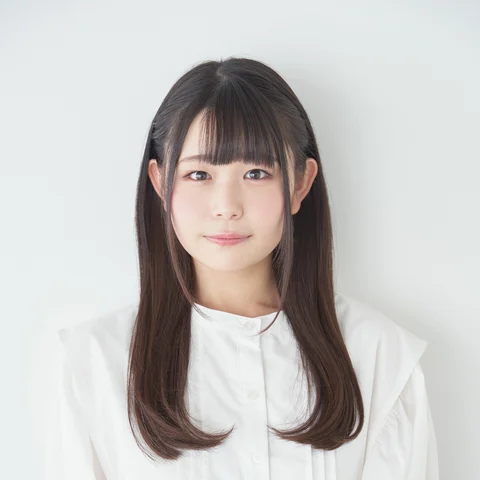
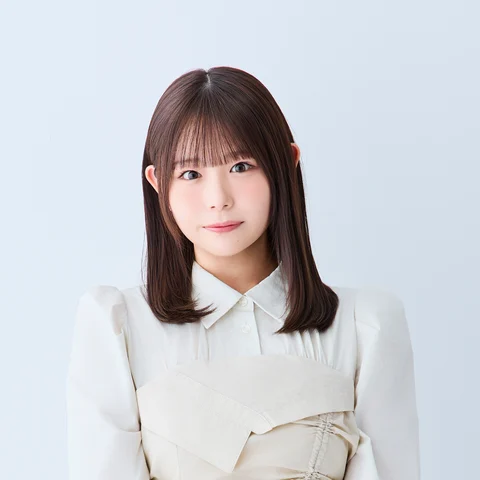
kawaii-re: update Kohinata Mika photo and hide current selection card

Changed region(s): [[0.2188, 0.0938, 0.9375, 1.0], [0.1875, 0.9062, 0.2188, 1.0]]

diff --git a/kawaii-re/index.html b/kawaii-re/index.html
@@ -18,7 +18,7 @@
   <link rel="stylesheet" href="fonts.css">
   <link rel="stylesheet" href="type-tokens.css">
   <link rel="stylesheet" href="styles.css?v=20261106-ux2">
-  <script id="performance-data" type="application/json">{"title":"KAWAII偶像パラドキシカル 再演","saleAt":"2026-11-12T22:00:00+09:00","ticketUrl":"https://confetti-web.com/@/may-holic23","officialUrl":"https://ameblo.jp/may-holic/entry-12983587226.html","email":"mayholic20209@gmail.com","shows":[{"id":1,"day":16,"weekday":"水","time":"19:00"},{"id":2,"day":17,"weekday":"木","time":"14:00"},{"id":3,"day":17,"weekday":"木","time":"19:00"},{"id":4,"day":18,"weekday":"金","time":"14:00"},{"id":5,"day":18,"weekday":"金","time":"19:00"},{"id":6,"day":19,"weekday":"土","time":"13:30"},{"id":7,"day":19,"weekday":"土","time":"18:30"},{"id":8,"day":20,"weekday":"日","time":"13:00"},{"id":9,"day":20,"weekday":"日","time":"17:00"}],"cast":[{"id":"sasaki-kotoko","name":"佐々木琴子","role":"コメ子","shows":[1,2,3,4,5,6,7,8,9],"source":"佐々木琴子.jpg","imageNumber":1,"crop":{"position":"attention","inset":0}},{"id":"sagara-mayu","name":"相良茉優","role":"神","shows":[2,3,4,5],"source":"相良茉優宣材写真.JPG","imageNumber":2,"crop":{"position":"attention","inset":0}},{"id":"kosaka-saki","name":"香坂さき","role":"神","shows":[1,6,7],"source":"香坂さき_アップ.jpg","imageNumber":3,"crop":{"position":"attention","inset":0}},{"id":"shioiri-asuka","name":"汐入あすか","role":"神","shows":[8,9],"source":"汐入あすかアー写 のコピー.png","imageNumber":4,"crop":{"position":"attention","inset":0}},{"id":"yagi-mashiro","name":"八木ましろ","role":"ムギ美","shows":[2,3,8,9],"source":"八木ましろ様宣材写真.jpg","imageNumber":5,"crop":{"position":"north","inset":0}},{"id":"yoshitake-chihaya","name":"吉武千颯","role":"ムギ美","shows":[1,4,5,6,7],"source":"吉武千颯 (1).jpeg","imageNumber":6,"crop":{"position":"north","inset":0}},{"id":"kohinata-mika","name":"小日向美香","role":"アワ和","shows":[2,3,6,7],"source":"小日向美香_宣材写真_S.jpeg","imageNumber":7,"crop":{"position":"attention","inset":0}},{"id":"kato-yui","name":"加藤結","role":"アワ和","shows":[1,4,5,8,9],"source":"加藤結写真.jpg","imageNumber":8,"crop":{"position":"attention","inset":0}},{"id":"hirose-yuki","name":"広瀬ゆうき","role":"キビ崎","shows":[1,6,7],"source":"広瀬ゆうき.jpg のコピー.jpg","imageNumber":9,"crop":{"position":"attention","inset":0}},{"id":"tanaka-saho","name":"田中咲帆","role":"キビ崎","shows":[2,3,4,5,8,9],"source":"田中咲帆 宣材写真.png のコピー.png","imageNumber":10,"crop":{"position":"attention","inset":0}},{"id":"harada-sayaka","name":"原田彩楓","role":"マメ乃","shows":[4,5,6,7],"source":"原田彩楓_宣材写真_バストアップ_斜め.JPEG","imageNumber":11,"crop":{"position":"attention","inset":0}},{"id":"minato-mio","name":"水湊美緒","role":"マメ乃","shows":[1,2,3,8,9],"source":"水湊美緒　宣材写真.jpg","imageNumber":12,"crop":{"position":"north","inset":0}},{"id":"nakazawa-mina","name":"中澤ミナ","role":"ざこざこ","shows":[1,8,9],"source":"ナカザワミナ.jpeg","imageNumber":13,"crop":{"position":"north","inset":0}},{"id":"mano-mizuki","name":"真野美月","role":"ざこざこ","shows":[4,5,6,7],"source":"真野美月_宣材写真.JPEG","imageNumber":14,"crop":{"position":"north","inset":0}},{"id":"fukagawa-ruka","name":"深川瑠華","role":"ざこざこ","shows":[2,3],"source":"深川瑠華_宣材写真.JPG","imageNumber":15,"crop":{"position":"attention","inset":0}},{"id":"ishihara-misaki","name":"石原美沙紀","role":"AKI","affiliation":"おとな小学生","shows":[1,2,3,4,5,6,7,8,9],"source":"石原美沙紀_2026宣材.JPG","imageNumber":16,"crop":{"position":"attention","inset":0}},{"id":"mita-ibuki","name":"三田美吹","role":"NIMO","shows":[1,2,3,4,5,6,7,8,9],"source":"三田美吹.JPG","imageNumber":17,"crop":{"position":"attention","inset":0}},{"id":"abe-hisayo","name":"阿部寿世","role":"KURARA","shows":[1,4,5,6,7],"source":"阿部寿世_宣伝写真.png","imageNumber":18,"crop":{"position":"north","inset":0}},{"id":"nakamura-akari","name":"中村朱里","role":"KURARA","affiliation":"B≡FULLEST","shows":[2,3,8,9],"source":"中村朱里宣材写真.jpg","imageNumber":19,"crop":{"position":"attention","inset":0}},{"id":"shirosaki-momoka","name":"城崎桃華","role":"SERIMU","shows":[1,2,3,8,9],"source":"城崎桃華.jpg","imageNumber":20,"crop":{"position":"attention","inset":0}},{"id":"ogoe-haruka","name":"小越春花","role":"SERIMU","shows":[4,5,6,7],"source":"小越春花_宣材写真.jpg のコピー.jpg","imageNumber":21,"crop":{"position":"attention","inset":0}},{"id":"yumoto-ami","name":"湯本亜美","role":"YOMONE","shows":[4,5,8,9],"source":"湯本亜美アー写.jpg","imageNumber":22,"crop":{"position":"attention","inset":0}},{"id":"yuki-rina","name":"結城りな","role":"YOMONE","shows":[1,2,3,6,7],"source":"結城りな宣材写真.jpg","imageNumber":23,"crop":{"position":"attention","inset":0}},{"id":"aimoto-ami","name":"藍本あみ","role":"RANON","shows":[1,6,7,8,9],"source":"藍本あみ宣材写真.jpg","imageNumber":24,"crop":{"position":"attention","inset":0}},{"id":"nobematsu-maika","name":"延松舞佳","role":"RANON","affiliation":"Hey!Mommy!","shows":[2,3,4,5],"source":"延松舞佳_宣材写真.jpg","imageNumber":25,"crop":{"position":"north","inset":0,"verticalOffset":0.3}},{"id":"natsume-hina","name":"夏目妃菜","role":"えるえる","shows":[1,4,5,6,7],"source":"夏目妃菜.jpg","imageNumber":26,"crop":{"position":"attention","inset":0}},{"id":"hoshino-miyu","name":"星野美夢","role":"えるえる","affiliation":"おとな小学生","shows":[2,3,8,9],"source":"星野美夢宣材写真.JPG","imageNumber":27,"crop":{"position":"attention","inset":0}},{"id":"okamoto-meiko","name":"岡本芽子","role":"リブラ","affiliation":"メイホリック","shows":[1,2,3,4,5,6,7,8,9],"source":"岡本芽子.jpg","imageNumber":28,"crop":{"position":"north","inset":0}},{"id":"sakura-kaoru","name":"佐倉薫","role":"ピスケス","shows":[2,3,4,5],"source":"1a_014佐倉薫.jpeg","imageNumber":29,"crop":{"position":"attention","inset":0}},{"id":"murahoshi-riju","name":"村星りじゅ","role":"ピスケス","shows":[1,6,7,8,9],"source":"村星りじゅ (1).jpg のコピー.jpg","imageNumber":30,"crop":{"position":"north","inset":0}},{"id":"honda-shiori","name":"本多しおり","role":"カンケル","shows":[4,5,6,7],"source":"本多しおり_宣材写真.PNG","imageNumber":31,"crop":{"position":"attention","inset":0}},{"id":"hiruta-airi","name":"蛭田愛梨","role":"カンケル","shows":[1,2,3,8,9],"source":"蛭田愛梨_アー写.JPG","imageNumber":32,"crop":{"position":"attention","inset":0}},{"id":"mitsuha-mio","name":"三葉海緒","role":"ヴィルゴ","shows":[1,2,3,6,7],"source":"三葉海緒_宣材写真.jpeg","imageNumber":33,"crop":{"position":"attention","inset":0}},{"id":"nishio-momoko","name":"西尾桃子","role":"ヴィルゴ","affiliation":"Mi'Line Hearts","shows":[4,5,8,9],"source":"西尾桃子宣材写真.jpg","imageNumber":34,"crop":{"position":"attention","inset":0}},{"id":"fukushima-haruna","name":"福嶋晴菜","role":"ぺぬぺぬ","shows":[6,7,8,9],"source":"福嶋晴菜_宣材 (1).jpg","imageNumber":35,"crop":{"position":"north","inset":0}},{"id":"amane-miho","name":"天音みほ","role":"ぺぬぺぬ","shows":[1,2,3,4,5],"source":"天音みほ_バストアップ.jpg","imageNumber":36,"crop":{"position":"attention","inset":0}}],"endsAt":"2026-12-21T00:00:00+09:00","socialUrl":"https://x.com/mayholictheater","billingGroups":[[["sasaki-kotoko"]],[["sagara-mayu","kosaka-saki","shioiri-asuka"]],[["yagi-mashiro","yoshitake-chihaya"],["kohinata-mika","kato-yui"],["hirose-yuki","tanaka-saho"],["harada-sayaka","minato-mio"],["nakazawa-mina","mano-mizuki","fukagawa-ruka"]],[["ishihara-misaki"],["mita-ibuki"],["abe-hisayo","nakamura-akari"],["shirosaki-momoka","ogoe-haruka"],["yumoto-ami","yuki-rina"],["aimoto-ami","nobematsu-maika"],["natsume-hina","hoshino-miyu"]],[["okamoto-meiko"],["sakura-kaoru","murahoshi-riju"],["honda-shiori","hiruta-airi"],["mitsuha-mio","nishio-momoko"],["fukushima-haruna","amane-miho"]]]}</script>
+  <script id="performance-data" type="application/json">{"title":"KAWAII偶像パラドキシカル 再演","saleAt":"2026-11-12T22:00:00+09:00","ticketUrl":"https://confetti-web.com/@/may-holic23","officialUrl":"https://ameblo.jp/may-holic/entry-12983587226.html","email":"mayholic20209@gmail.com","shows":[{"id":1,"day":16,"weekday":"水","time":"19:00"},{"id":2,"day":17,"weekday":"木","time":"14:00"},{"id":3,"day":17,"weekday":"木","time":"19:00"},{"id":4,"day":18,"weekday":"金","time":"14:00"},{"id":5,"day":18,"weekday":"金","time":"19:00"},{"id":6,"day":19,"weekday":"土","time":"13:30"},{"id":7,"day":19,"weekday":"土","time":"18:30"},{"id":8,"day":20,"weekday":"日","time":"13:00"},{"id":9,"day":20,"weekday":"日","time":"17:00"}],"cast":[{"id":"sasaki-kotoko","name":"佐々木琴子","role":"コメ子","shows":[1,2,3,4,5,6,7,8,9],"source":"佐々木琴子.jpg","imageNumber":1,"crop":{"position":"attention","inset":0}},{"id":"sagara-mayu","name":"相良茉優","role":"神","shows":[2,3,4,5],"source":"相良茉優宣材写真.JPG","imageNumber":2,"crop":{"position":"attention","inset":0}},{"id":"kosaka-saki","name":"香坂さき","role":"神","shows":[1,6,7],"source":"香坂さき_アップ.jpg","imageNumber":3,"crop":{"position":"attention","inset":0}},{"id":"shioiri-asuka","name":"汐入あすか","role":"神","shows":[8,9],"source":"汐入あすかアー写 のコピー.png","imageNumber":4,"crop":{"position":"attention","inset":0}},{"id":"yagi-mashiro","name":"八木ましろ","role":"ムギ美","shows":[2,3,8,9],"source":"八木ましろ様宣材写真.jpg","imageNumber":5,"crop":{"position":"north","inset":0}},{"id":"yoshitake-chihaya","name":"吉武千颯","role":"ムギ美","shows":[1,4,5,6,7],"source":"吉武千颯 (1).jpeg","imageNumber":6,"crop":{"position":"north","inset":0}},{"id":"kohinata-mika","name":"小日向美香","role":"アワ和","shows":[2,3,6,7],"source":"小日向美香_宣材写真 (2).jpg","imageNumber":7,"crop":{"position":"attention","inset":0}},{"id":"kato-yui","name":"加藤結","role":"アワ和","shows":[1,4,5,8,9],"source":"加藤結写真.jpg","imageNumber":8,"crop":{"position":"attention","inset":0}},{"id":"hirose-yuki","name":"広瀬ゆうき","role":"キビ崎","shows":[1,6,7],"source":"広瀬ゆうき.jpg のコピー.jpg","imageNumber":9,"crop":{"position":"attention","inset":0}},{"id":"tanaka-saho","name":"田中咲帆","role":"キビ崎","shows":[2,3,4,5,8,9],"source":"田中咲帆 宣材写真.png のコピー.png","imageNumber":10,"crop":{"position":"attention","inset":0}},{"id":"harada-sayaka","name":"原田彩楓","role":"マメ乃","shows":[4,5,6,7],"source":"原田彩楓_宣材写真_バストアップ_斜め.JPEG","imageNumber":11,"crop":{"position":"attention","inset":0}},{"id":"minato-mio","name":"水湊美緒","role":"マメ乃","shows":[1,2,3,8,9],"source":"水湊美緒　宣材写真.jpg","imageNumber":12,"crop":{"position":"north","inset":0}},{"id":"nakazawa-mina","name":"中澤ミナ","role":"ざこざこ","shows":[1,8,9],"source":"ナカザワミナ.jpeg","imageNumber":13,"crop":{"position":"north","inset":0}},{"id":"mano-mizuki","name":"真野美月","role":"ざこざこ","shows":[4,5,6,7],"source":"真野美月_宣材写真.JPEG","imageNumber":14,"crop":{"position":"north","inset":0}},{"id":"fukagawa-ruka","name":"深川瑠華","role":"ざこざこ","shows":[2,3],"source":"深川瑠華_宣材写真.JPG","imageNumber":15,"crop":{"position":"attention","inset":0}},{"id":"ishihara-misaki","name":"石原美沙紀","role":"AKI","affiliation":"おとな小学生","shows":[1,2,3,4,5,6,7,8,9],"source":"石原美沙紀_2026宣材.JPG","imageNumber":16,"crop":{"position":"attention","inset":0}},{"id":"mita-ibuki","name":"三田美吹","role":"NIMO","shows":[1,2,3,4,5,6,7,8,9],"source":"三田美吹.JPG","imageNumber":17,"crop":{"position":"attention","inset":0}},{"id":"abe-hisayo","name":"阿部寿世","role":"KURARA","shows":[1,4,5,6,7],"source":"阿部寿世_宣伝写真.png","imageNumber":18,"crop":{"position":"north","inset":0}},{"id":"nakamura-akari","name":"中村朱里","role":"KURARA","affiliation":"B≡FULLEST","shows":[2,3,8,9],"source":"中村朱里宣材写真.jpg","imageNumber":19,"crop":{"position":"attention","inset":0}},{"id":"shirosaki-momoka","name":"城崎桃華","role":"SERIMU","shows":[1,2,3,8,9],"source":"城崎桃華.jpg","imageNumber":20,"crop":{"position":"attention","inset":0}},{"id":"ogoe-haruka","name":"小越春花","role":"SERIMU","shows":[4,5,6,7],"source":"小越春花_宣材写真.jpg のコピー.jpg","imageNumber":21,"crop":{"position":"attention","inset":0}},{"id":"yumoto-ami","name":"湯本亜美","role":"YOMONE","shows":[4,5,8,9],"source":"湯本亜美アー写.jpg","imageNumber":22,"crop":{"position":"attention","inset":0}},{"id":"yuki-rina","name":"結城りな","role":"YOMONE","shows":[1,2,3,6,7],"source":"結城りな宣材写真.jpg","imageNumber":23,"crop":{"position":"attention","inset":0}},{"id":"aimoto-ami","name":"藍本あみ","role":"RANON","shows":[1,6,7,8,9],"source":"藍本あみ宣材写真.jpg","imageNumber":24,"crop":{"position":"attention","inset":0}},{"id":"nobematsu-maika","name":"延松舞佳","role":"RANON","affiliation":"Hey!Mommy!","shows":[2,3,4,5],"source":"延松舞佳_宣材写真.jpg","imageNumber":25,"crop":{"position":"north","inset":0,"verticalOffset":0.3}},{"id":"natsume-hina","name":"夏目妃菜","role":"えるえる","shows":[1,4,5,6,7],"source":"夏目妃菜.jpg","imageNumber":26,"crop":{"position":"attention","inset":0}},{"id":"hoshino-miyu","name":"星野美夢","role":"えるえる","affiliation":"おとな小学生","shows":[2,3,8,9],"source":"星野美夢宣材写真.JPG","imageNumber":27,"crop":{"position":"attention","inset":0}},{"id":"okamoto-meiko","name":"岡本芽子","role":"リブラ","affiliation":"メイホリック","shows":[1,2,3,4,5,6,7,8,9],"source":"岡本芽子.jpg","imageNumber":28,"crop":{"position":"north","inset":0}},{"id":"sakura-kaoru","name":"佐倉薫","role":"ピスケス","shows":[2,3,4,5],"source":"1a_014佐倉薫.jpeg","imageNumber":29,"crop":{"position":"attention","inset":0}},{"id":"murahoshi-riju","name":"村星りじゅ","role":"ピスケス","shows":[1,6,7,8,9],"source":"村星りじゅ (1).jpg のコピー.jpg","imageNumber":30,"crop":{"position":"north","inset":0}},{"id":"honda-shiori","name":"本多しおり","role":"カンケル","shows":[4,5,6,7],"source":"本多しおり_宣材写真.PNG","imageNumber":31,"crop":{"position":"attention","inset":0}},{"id":"hiruta-airi","name":"蛭田愛梨","role":"カンケル","shows":[1,2,3,8,9],"source":"蛭田愛梨_アー写.JPG","imageNumber":32,"crop":{"position":"attention","inset":0}},{"id":"mitsuha-mio","name":"三葉海緒","role":"ヴィルゴ","shows":[1,2,3,6,7],"source":"三葉海緒_宣材写真.jpeg","imageNumber":33,"crop":{"position":"attention","inset":0}},{"id":"nishio-momoko","name":"西尾桃子","role":"ヴィルゴ","affiliation":"Mi'Line Hearts","shows":[4,5,8,9],"source":"西尾桃子宣材写真.jpg","imageNumber":34,"crop":{"position":"attention","inset":0}},{"id":"fukushima-haruna","name":"福嶋晴菜","role":"ぺぬぺぬ","shows":[6,7,8,9],"source":"福嶋晴菜_宣材 (1).jpg","imageNumber":35,"crop":{"position":"north","inset":0}},{"id":"amane-miho","name":"天音みほ","role":"ぺぬぺぬ","shows":[1,2,3,4,5],"source":"天音みほ_バストアップ.jpg","imageNumber":36,"crop":{"position":"attention","inset":0}}],"endsAt":"2026-12-21T00:00:00+09:00","socialUrl":"https://x.com/mayholictheater","billingGroups":[[["sasaki-kotoko"]],[["sagara-mayu","kosaka-saki","shioiri-asuka"]],[["yagi-mashiro","yoshitake-chihaya"],["kohinata-mika","kato-yui"],["hirose-yuki","tanaka-saho"],["harada-sayaka","minato-mio"],["nakazawa-mina","mano-mizuki","fukagawa-ruka"]],[["ishihara-misaki"],["mita-ibuki"],["abe-hisayo","nakamura-akari"],["shirosaki-momoka","ogoe-haruka"],["yumoto-ami","yuki-rina"],["aimoto-ami","nobematsu-maika"],["natsume-hina","hoshino-miyu"]],[["okamoto-meiko"],["sakura-kaoru","murahoshi-riju"],["honda-shiori","hiruta-airi"],["mitsuha-mio","nishio-momoko"],["fukushima-haruna","amane-miho"]]]}</script>
   <script src="app.js?v=20261106-ux2" type="module"></script>
 </head>
 <body>
@@ -102,7 +102,7 @@
       <div class="section-head"><h2>SCHEDULE &amp; TICKET <span>公演日程・チケット</span></h2></div>
       <div id="cast-finder" class="finder-intro"><label for="cast-filter">出演者から探す<select id="cast-filter"><option value="">すべての出演者</option><option value="sasaki-kotoko">佐々木琴子</option><option value="sagara-mayu">相良茉優</option><option value="kosaka-saki">香坂さき</option><option value="shioiri-asuka">汐入あすか</option><option value="yagi-mashiro">八木ましろ</option><option value="yoshitake-chihaya">吉武千颯</option><option value="kohinata-mika">小日向美香</option><option value="kato-yui">加藤結</option><option value="hirose-yuki">広瀬ゆうき</option><option value="tanaka-saho">田中咲帆</option><option value="harada-sayaka">原田彩楓</option><option value="minato-mio">水湊美緒</option><option value="nakazawa-mina">中澤ミナ</option><option value="mano-mizuki">真野美月</option><option value="fukagawa-ruka">深川瑠華</option><option value="ishihara-misaki">石原美沙紀</option><option value="mita-ibuki">三田美吹</option><option value="abe-hisayo">阿部寿世</option><option value="nakamura-akari">中村朱里</option><option value="shirosaki-momoka">城崎桃華</option><option value="ogoe-haruka">小越春花</option><option value="yumoto-ami">湯本亜美</option><option value="yuki-rina">結城りな</option><option value="aimoto-ami">藍本あみ</option><option value="nobematsu-maika">延松舞佳</option><option value="natsume-hina">夏目妃菜</option><option value="hoshino-miyu">星野美夢</option><option value="okamoto-meiko">岡本芽子</option><option value="sakura-kaoru">佐倉薫</option><option value="murahoshi-riju">村星りじゅ</option><option value="honda-shiori">本多しおり</option><option value="hiruta-airi">蛭田愛梨</option><option value="mitsuha-mio">三葉海緒</option><option value="nishio-momoko">西尾桃子</option><option value="fukushima-haruna">福嶋晴菜</option><option value="amane-miho">天音みほ</option></select></label><div><p class="important">ご購入前に、キャストの出演日をご確認ください。</p><p class="finder-note">応援キャストは、出演日以外の公演でも選択できます。</p></div></div>
       <noscript><p>出演回の絞り込みにはJavaScriptが必要です。出演者欄に全出演日時を記載しています。<a href="https://ameblo.jp/may-holic/entry-12983587226.html">公式の全出演日程もご確認ください。</a></p></noscript>
-      <div class="schedule-panel"><div class="schedule"><table><caption>2026年12月 公演日程（全9公演）</caption><tbody><tr><th scope="row"><span>12.16</span><small>（水）</small></th><td><span class="show-slot"><button type="button" class="show-button" data-show="1" aria-controls="show-results" aria-pressed="false" aria-label="12月16日 19:00の出演者を見る"><span>19:00</span><small class="show-selected" hidden>選択中 ✓</small></button><span class="show-unavailable" hidden>出演なし</span></span></td></tr><tr><th scope="row"><span>12.17</span><small>（木）</small></th><td><span class="show-slot"><button type="button" class="show-button" data-show="2" aria-controls="show-results" aria-pressed="false" aria-label="12月17日 14:00の出演者を見る"><span>14:00</span><small class="show-selected" hidden>選択中 ✓</small></button><span class="show-unavailable" hidden>出演なし</span></span><span class="time-divider" aria-hidden="true">/</span><span class="show-slot"><button type="button" class="show-button" data-show="3" aria-controls="show-results" aria-pressed="false" aria-label="12月17日 19:00の出演者を見る"><span>19:00</span><small class="show-selected" hidden>選択中 ✓</small></button><span class="show-unavailable" hidden>出演なし</span></span></td></tr><tr><th scope="row"><span>12.18</span><small>（金）</small></th><td><span class="show-slot"><button type="button" class="show-button" data-show="4" aria-controls="show-results" aria-pressed="false" aria-label="12月18日 14:00の出演者を見る"><span>14:00</span><small class="show-selected" hidden>選択中 ✓</small></button><span class="show-unavailable" hidden>出演なし</span></span><span class="time-divider" aria-hidden="true">/</span><span class="show-slot"><button type="button" class="show-button" data-show="5" aria-controls="show-results" aria-pressed="false" aria-label="12月18日 19:00の出演者を見る"><span>19:00</span><small class="show-selected" hidden>選択中 ✓</small></button><span class="show-unavailable" hidden>出演なし</span></span></td></tr><tr><th scope="row"><span>12.19</span><small>（土）</small></th><td><span class="show-slot"><button type="button" class="show-button" data-show="6" aria-controls="show-results" aria-pressed="false" aria-label="12月19日 13:30の出演者を見る"><span>13:30</span><small class="show-selected" hidden>選択中 ✓</small></button><span class="show-unavailable" hidden>出演なし</span></span><span class="time-divider" aria-hidden="true">/</span><span class="show-slot"><button type="button" class="show-button" data-show="7" aria-controls="show-results" aria-pressed="false" aria-label="12月19日 18:30の出演者を見る"><span>18:30</span><small class="show-selected" hidden>選択中 ✓</small></button><span class="show-unavailable" hidden>出演なし</span></span></td></tr><tr><th scope="row"><span>12.20</span><small>（日）</small></th><td><span class="show-slot"><button type="button" class="show-button" data-show="8" aria-controls="show-results" aria-pressed="false" aria-label="12月20日 13:00の出演者を見る"><span>13:00</span><small class="show-selected" hidden>選択中 ✓</small></button><span class="show-unavailable" hidden>出演なし</span></span><span class="time-divider" aria-hidden="true">/</span><span class="show-slot"><button type="button" class="show-button" data-show="9" aria-controls="show-results" aria-pressed="false" aria-label="12月20日 17:00の出演者を見る"><span>17:00</span><small class="show-selected" hidden>選択中 ✓</small></button><span class="show-unavailable" hidden>出演なし</span></span></td></tr></tbody></table><p class="caption js-help">開演時間を選ぶと、下に出演者を表示します。<br>選択中の時間をもう一度押すと、日時だけ解除できます。</p></div><div class="selection-state"><p class="selection-title">現在の選択</p><p id="selection-summary" role="status" aria-live="polite">日時・出演者は未選択です。</p><div id="same-role" class="same-role" hidden><p id="same-role-label" class="same-role-label"></p><div id="same-role-list" class="same-role-list"></div></div><div class="selection-actions"><button id="clear-show" type="button" hidden>日時を解除 <span aria-hidden="true">×</span></button><button id="clear-cast" type="button" hidden>出演者を解除 <span aria-hidden="true">×</span></button></div><p class="caption">上演時間：約120分（予定）<br>※演出の都合により若干変動する可能性がございます。</p></div></div>
+      <div class="schedule-panel"><div class="schedule"><table><caption>2026年12月 公演日程（全9公演）</caption><tbody><tr><th scope="row"><span>12.16</span><small>（水）</small></th><td><span class="show-slot"><button type="button" class="show-button" data-show="1" aria-controls="show-results" aria-pressed="false" aria-label="12月16日 19:00の出演者を見る"><span>19:00</span><small class="show-selected" hidden>選択中 ✓</small></button><span class="show-unavailable" hidden>出演なし</span></span></td></tr><tr><th scope="row"><span>12.17</span><small>（木）</small></th><td><span class="show-slot"><button type="button" class="show-button" data-show="2" aria-controls="show-results" aria-pressed="false" aria-label="12月17日 14:00の出演者を見る"><span>14:00</span><small class="show-selected" hidden>選択中 ✓</small></button><span class="show-unavailable" hidden>出演なし</span></span><span class="time-divider" aria-hidden="true">/</span><span class="show-slot"><button type="button" class="show-button" data-show="3" aria-controls="show-results" aria-pressed="false" aria-label="12月17日 19:00の出演者を見る"><span>19:00</span><small class="show-selected" hidden>選択中 ✓</small></button><span class="show-unavailable" hidden>出演なし</span></span></td></tr><tr><th scope="row"><span>12.18</span><small>（金）</small></th><td><span class="show-slot"><button type="button" class="show-button" data-show="4" aria-controls="show-results" aria-pressed="false" aria-label="12月18日 14:00の出演者を見る"><span>14:00</span><small class="show-selected" hidden>選択中 ✓</small></button><span class="show-unavailable" hidden>出演なし</span></span><span class="time-divider" aria-hidden="true">/</span><span class="show-slot"><button type="button" class="show-button" data-show="5" aria-controls="show-results" aria-pressed="false" aria-label="12月18日 19:00の出演者を見る"><span>19:00</span><small class="show-selected" hidden>選択中 ✓</small></button><span class="show-unavailable" hidden>出演なし</span></span></td></tr><tr><th scope="row"><span>12.19</span><small>（土）</small></th><td><span class="show-slot"><button type="button" class="show-button" data-show="6" aria-controls="show-results" aria-pressed="false" aria-label="12月19日 13:30の出演者を見る"><span>13:30</span><small class="show-selected" hidden>選択中 ✓</small></button><span class="show-unavailable" hidden>出演なし</span></span><span class="time-divider" aria-hidden="true">/</span><span class="show-slot"><button type="button" class="show-button" data-show="7" aria-controls="show-results" aria-pressed="false" aria-label="12月19日 18:30の出演者を見る"><span>18:30</span><small class="show-selected" hidden>選択中 ✓</small></button><span class="show-unavailable" hidden>出演なし</span></span></td></tr><tr><th scope="row"><span>12.20</span><small>（日）</small></th><td><span class="show-slot"><button type="button" class="show-button" data-show="8" aria-controls="show-results" aria-pressed="false" aria-label="12月20日 13:00の出演者を見る"><span>13:00</span><small class="show-selected" hidden>選択中 ✓</small></button><span class="show-unavailable" hidden>出演なし</span></span><span class="time-divider" aria-hidden="true">/</span><span class="show-slot"><button type="button" class="show-button" data-show="9" aria-controls="show-results" aria-pressed="false" aria-label="12月20日 17:00の出演者を見る"><span>17:00</span><small class="show-selected" hidden>選択中 ✓</small></button><span class="show-unavailable" hidden>出演なし</span></span></td></tr></tbody></table><p class="caption js-help">開演時間を選ぶと、下に出演者を表示します。<br>選択中の時間をもう一度押すと、日時だけ解除できます。</p></div><div class="selection-state" hidden><p id="selection-summary" role="status" aria-live="polite">日時・出演者は未選択です。</p><div id="same-role" class="same-role" hidden><p id="same-role-label" class="same-role-label"></p><div id="same-role-list" class="same-role-list"></div></div><div class="selection-actions"><button id="clear-show" type="button" hidden>日時を解除 <span aria-hidden="true">×</span></button><button id="clear-cast" type="button" hidden>出演者を解除 <span aria-hidden="true">×</span></button></div><p class="caption">上演時間：約120分（予定）<br>※演出の都合により若干変動する可能性がございます。</p></div></div>
       <div id="show-results" class="show-results" hidden><div class="result-head"><h3 id="results-heading" tabindex="-1">出演公演</h3><div class="result-actions"><button id="toggle-all-casts" class="text-link" type="button" hidden>全公演の出演者を開く</button><button id="result-clear-show" class="text-link" type="button" hidden>日時を解除</button><button id="reset-filter" class="text-link" type="button">条件をすべて解除</button></div></div><p id="result-status"></p><div id="result-list"></div></div>
       <div class="ticket-grid">
       <div class="prices"><h3>チケット <small>（全席指定・税込）</small></h3><dl><div><dt>S席</dt><dd>¥11,000</dd></div><div><dt>特典付A席</dt><dd>¥9,800</dd></div><div><dt>A席</dt><dd>¥8,800</dd></div></dl><p class="caption">当日券 ＋500円</p></div>

diff --git a/kawaii-re/template.html b/kawaii-re/template.html
@@ -67,7 +67,7 @@
       <div class="section-head"><h2>SCHEDULE &amp; TICKET <span>公演日程・チケット</span></h2></div>
       <div id="cast-finder" class="finder-intro"><label for="cast-filter">出演者から探す<select id="cast-filter"><option value="">すべての出演者</option>{{CAST_OPTIONS}}</select></label><div><p class="important">ご購入前に、キャストの出演日をご確認ください。</p><p class="finder-note">応援キャストは、出演日以外の公演でも選択できます。</p></div></div>
       <noscript><p>出演回の絞り込みにはJavaScriptが必要です。出演者欄に全出演日時を記載しています。<a href="https://ameblo.jp/may-holic/entry-12983587226.html">公式の全出演日程もご確認ください。</a></p></noscript>
-      <div class="schedule-panel"><div class="schedule"><table><caption>2026年12月 公演日程（全9公演）</caption><tbody>{{CALENDAR}}</tbody></table><p class="caption js-help">開演時間を選ぶと、下に出演者を表示します。<br>選択中の時間をもう一度押すと、日時だけ解除できます。</p></div><div class="selection-state"><p class="selection-title">現在の選択</p><p id="selection-summary" role="status" aria-live="polite">日時・出演者は未選択です。</p><div id="same-role" class="same-role" hidden><p id="same-role-label" class="same-role-label"></p><div id="same-role-list" class="same-role-list"></div></div><div class="selection-actions"><button id="clear-show" type="button" hidden>日時を解除 <span aria-hidden="true">×</span></button><button id="clear-cast" type="button" hidden>出演者を解除 <span aria-hidden="true">×</span></button></div><p class="caption">上演時間：約120分（予定）<br>※演出の都合により若干変動する可能性がございます。</p></div></div>
+      <div class="schedule-panel"><div class="schedule"><table><caption>2026年12月 公演日程（全9公演）</caption><tbody>{{CALENDAR}}</tbody></table><p class="caption js-help">開演時間を選ぶと、下に出演者を表示します。<br>選択中の時間をもう一度押すと、日時だけ解除できます。</p></div><div class="selection-state" hidden><p id="selection-summary" role="status" aria-live="polite">日時・出演者は未選択です。</p><div id="same-role" class="same-role" hidden><p id="same-role-label" class="same-role-label"></p><div id="same-role-list" class="same-role-list"></div></div><div class="selection-actions"><button id="clear-show" type="button" hidden>日時を解除 <span aria-hidden="true">×</span></button><button id="clear-cast" type="button" hidden>出演者を解除 <span aria-hidden="true">×</span></button></div><p class="caption">上演時間：約120分（予定）<br>※演出の都合により若干変動する可能性がございます。</p></div></div>
       <div id="show-results" class="show-results" hidden><div class="result-head"><h3 id="results-heading" tabindex="-1">出演公演</h3><div class="result-actions"><button id="toggle-all-casts" class="text-link" type="button" hidden>全公演の出演者を開く</button><button id="result-clear-show" class="text-link" type="button" hidden>日時を解除</button><button id="reset-filter" class="text-link" type="button">条件をすべて解除</button></div></div><p id="result-status"></p><div id="result-list"></div></div>
       <div class="ticket-grid">
       <div class="prices"><h3>チケット <small>（全席指定・税込）</small></h3><dl><div><dt>S席</dt><dd>¥11,000</dd></div><div><dt>特典付A席</dt><dd>¥9,800</dd></div><div><dt>A席</dt><dd>¥8,800</dd></div></dl><p class="caption">当日券 ＋500円</p></div>

diff --git a/kawaii-re/docs/cast-image-map.md b/kawaii-re/docs/cast-image-map.md
@@ -19,7 +19,7 @@
 | 04 | `kawaii-re-cast-04.webp` | 汐入あすか | 神 | `汐入あすかアー写 のコピー.png` |
 | 05 | `kawaii-re-cast-05.webp` | 八木ましろ | ムギ美 | `八木ましろ様宣材写真.jpg` |
 | 06 | `kawaii-re-cast-06.webp` | 吉武千颯 | ムギ美 | `吉武千颯 (1).jpeg` |
-| 07 | `kawaii-re-cast-07.webp` | 小日向美香 | アワ和 | `小日向美香_宣材写真_S.jpeg` |
+| 07 | `kawaii-re-cast-07.webp` | 小日向美香 | アワ和 | `小日向美香_宣材写真 (2).jpg` |
 | 08 | `kawaii-re-cast-08.webp` | 加藤結 | アワ和 | `加藤結写真.jpg` |
 | 09 | `kawaii-re-cast-09.webp` | 広瀬ゆうき | キビ崎 | `広瀬ゆうき.jpg のコピー.jpg` |
 | 10 | `kawaii-re-cast-10.webp` | 田中咲帆 | キビ崎 | `田中咲帆 宣材写真.png のコピー.png` |
